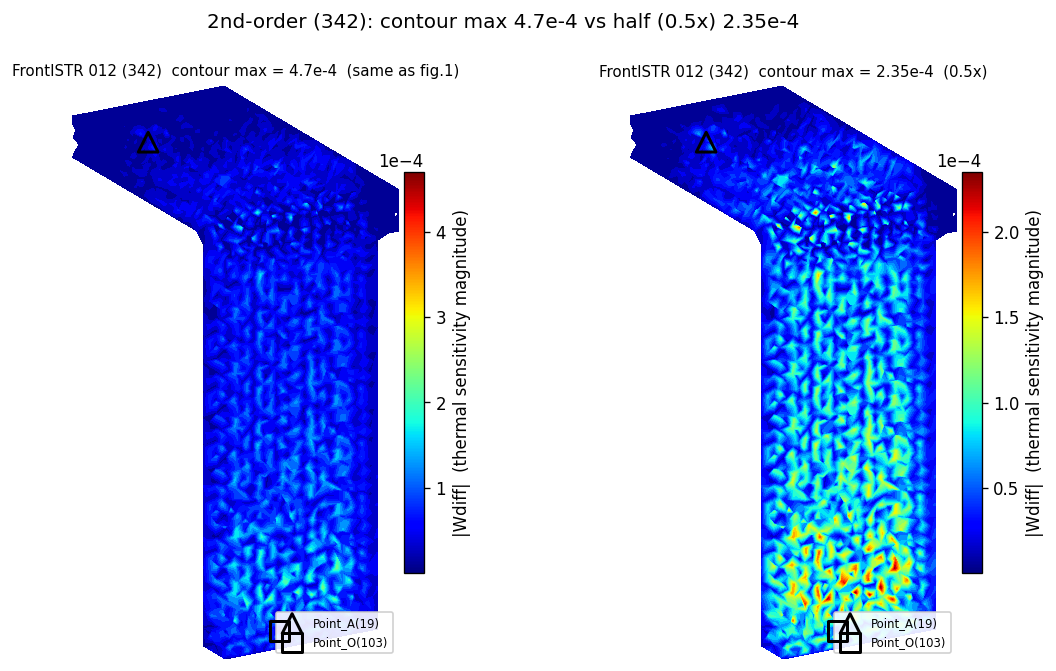
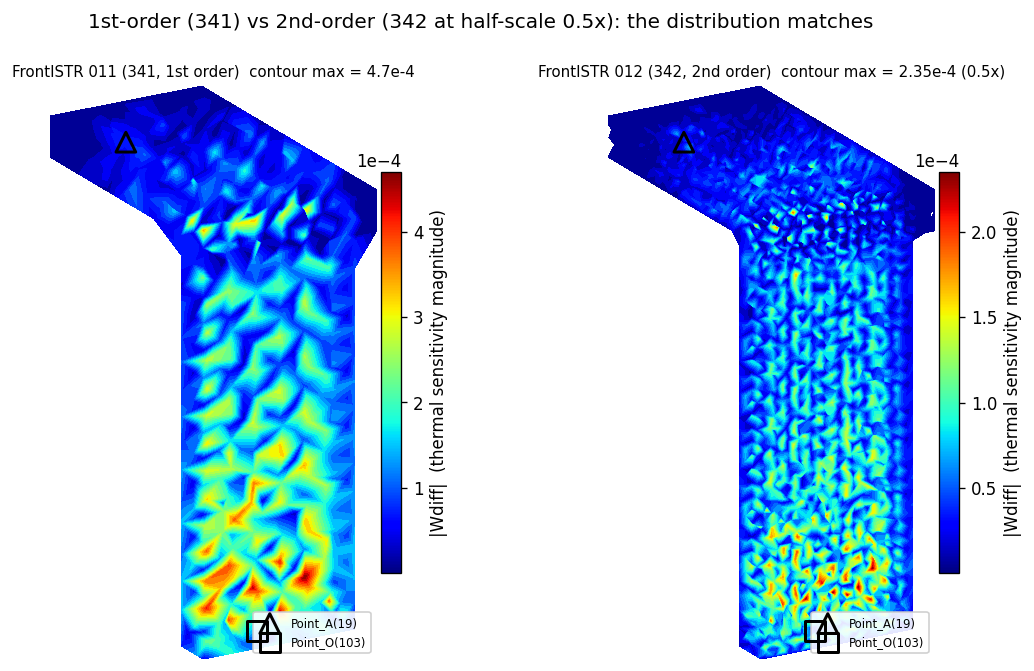
docs: fix GitHub inline-math parse failures; add Point_A program, ParaView image, K/H appendix pointer; fix 1st-vs-2nd figure
- Inline math on GitHub was failing across docs/13,14 and patch/README: '$'
  next to a digit (currency) or next to CJK breaks the $...$ span and cascades
  down the paragraph. Brace-wrap digit-start spans (${3n...}$) and pad ASCII
  spaces around inline math adjacent to Japanese.
- docs/14: add 4.5 (the Point_A/Point_O reading program, fstr_sensitivity_read_
  dofs walkthrough); add a real ParaView comparison image (fi1python_fi2_fi1);
  pointer to Appendix A (K/H formulas + STF_C3/TLOAD_C3/assembly file locations);
  fix stale tbl342 note (342 needs no reorder).
- plot_wdiff_distribution.py: second figure now left=341 (1st), right=342 (2nd,
  half-scale) to show the distributions match.

diff --git a/20260810_KinvH/post/plot_wdiff_distribution.py b/20260810_KinvH/post/plot_wdiff_distribution.py
@@ -135,15 +135,17 @@ def main():
     out1 = os.path.join(ROOT, 'docs/img/dumpw_wdiff_python_009_011_012.png')
     fig.savefig(out1, dpi=120, bbox_inches='tight'); print('saved', out1)
 
-    # --- 図2: 342だけ、色スケール上限を 4.7e-4（左）と その0.5倍=2.35e-4（右）で比較 ---
+    # --- 図2: 左=1次(341)を上限4.7e-4、右=2次(342)を上限0.5倍=2.35e-4。
+    #          2次のコンター上限をピークに合わせて半分にすると、分布は1次とそっくりになる。
     fig2, axes2 = plt.subplots(1, 2, figsize=(11, 6.2))
-    n1, c1 = draw_panel(axes2[0], nodes342, ids342, w012, VMAX,
-                        'FrontISTR 012 (342)  contour max = 4.7e-4  (same as fig.1)')
+    n1, c1 = draw_panel(axes2[0], nodes341, ids341, w011, VMAX,
+                        'FrontISTR 011 (341, 1st order)  contour max = 4.7e-4')
     add_colorbar(fig2, axes2[0], n1, c1, VMAX)
     n2, c2 = draw_panel(axes2[1], nodes342, ids342, w012, 0.5 * VMAX,
-                        'FrontISTR 012 (342)  contour max = 2.35e-4  (0.5x)')
+                        'FrontISTR 012 (342, 2nd order)  contour max = 2.35e-4 (0.5x)')
     add_colorbar(fig2, axes2[1], n2, c2, 0.5 * VMAX)
-    fig2.suptitle('2nd-order (342): contour max 4.7e-4 vs half (0.5x) 2.35e-4', fontsize=12)
+    fig2.suptitle('1st-order (341) vs 2nd-order (342 at half-scale 0.5x): '
+                  'the distribution matches', fontsize=12)
     out2 = os.path.join(ROOT, 'docs/img/dumpw_wdiff_342_halfscale.png')
     fig2.savefig(out2, dpi=120, bbox_inches='tight'); print('saved', out2)
 

diff --git a/20260810_KinvH/docs/13_手順_FrontISTR内でW行列とVTKを出力.md b/20260810_KinvH/docs/13_手順_FrontISTR内でW行列とVTKを出力.md
@@ -6,7 +6,7 @@
 `post/write_sensitivity_vtk.py`）で行っていた。FrontISTRからは $K$ と $H$ だけを取り出し、
 そのあとPythonで $W = K^{-1}H$ を解いて可視化していた、ということである。
 
-この手順では、その後半（$W$ の計算とVTK出力）を**FrontISTRの中だけで完結**させる。
+この手順では、その後半（ $W$ の計算とVTK出力）を**FrontISTRの中だけで完結**させる。
 新しいキーワード `DUMPW=YES` を `!SOLVER` カードに付けると、`fistr1` を1回実行するだけで
 
 - `sensitivity_Wdiff.vtk` … ParaViewでそのまま開ける感度場（ベクトル場）
@@ -15,7 +15,7 @@
 の2つが出力される。**Pythonは不要**になる。
 
 このためのパッチが `patch/frontistr_dumpw_tet.patch` である。
-既存の `DUMPH` パッチ（$H$ を出すだけ）とは**独立した別パッチ**で、
+既存の `DUMPH` パッチ（ $H$ を出すだけ）とは**独立した別パッチ**で、
 **別のソースフォルダ・別のビルドフォルダ・別のコマンド**で扱う。
 
 ### 1.1 適用範囲
@@ -30,7 +30,7 @@
 > 対応と、`K`・`H`・`W`・`VTK` の4つを1回の実行で出力する使い方は
 > `docs/14_手順_1次2次要素のW出力とvtk比較.md` にまとめてある。
 > DUMPWは1回の実行で `sensitivity_Wdiff.vtk`・`Wdiff_fistr.txt` に加え
-> `H_matrix.mtx`（$H$）も出力する（`DUMPTYPE=MM` を併用すれば $K$ も同時に出る）。
+> `H_matrix.mtx`（ $H$ ）も出力する（`DUMPTYPE=MM` を併用すれば $K$ も同時に出る）。
 
 ---
 
@@ -38,12 +38,12 @@
 
 ### 2.1 感度行列 W と Wdiff
 
-$K$ を（境界条件適用後の）全体剛性行列、$H$ を温度荷重変換行列とすると、
+$K$ を（境界条件適用後の）全体剛性行列、 $H$ を温度荷重変換行列とすると、
 「節点温度を1つ動かしたときに各自由度がどれだけ動くか」を表す感度行列は次で定義される。
 
 $$W = K^{-1} H$$
 
-$K$ は $(3 n_{\text{node}}) \times (3 n_{\text{node}})$、$H$ は $(3 n_{\text{node}}) \times n_{\text{node}}$ なので、
+$K$ は $(3 n_{\text{node}}) \times (3 n_{\text{node}})$ 、 $H$ は $(3 n_{\text{node}}) \times n_{\text{node}}$ なので、
 $W$ も $(3 n_{\text{node}}) \times n_{\text{node}}$ である。
 
 実際に欲しいのは、**測定点A（Point_A）と基準点O（Point_O）の相対変位**が、
@@ -51,28 +51,28 @@ $W$ も $(3 n_{\text{node}}) \times n_{\text{node}}$ である。
 
 $$W_{\text{diff}} = W[\text{Point A の3行}] - W[\text{Point O の3行}]$$
 
-という $3 \times n_{\text{node}}$ の行列になる。
+という ${3 \times n_{\text{node}}}$ の行列になる。
 
 ### 2.2 アジョイント（随伴）法：6回解くだけ
 
 $W_{\text{diff}}$ を素直に作ると $W$ の全列（＝節点数だけの回数）を解く必要があり、節点数が
-増えると非常に重い。そこで、$K$ が対称であること（$K^{-1}$ も対称）を使う。
+増えると非常に重い。そこで、 $K$ が対称であること（ $K^{-1}$ も対称）を使う。
 $W_{\text{diff}}$ の各行は、Point_A / Point_O の6自由度に対応する単位ベクトル $e_i$ を使って
 
 $$\text{row}_i = e_i^{\mathsf T} K^{-1} H = (K^{-1} e_i)^{\mathsf T} H = z_i^{\mathsf T} H$$
 
-と書ける（$z_i = K^{-1} e_i$）。つまり必要なのは **6本の $z_i$ を解くこと**だけで、
+と書ける（ $z_i = K^{-1} e_i$ ）。つまり必要なのは **6本の $z_i$ を解くこと**だけで、
 節点数がいくら増えても solve は6回で済む。詳しい導出は `docs/12` を参照。
 
 ### 2.3 FrontISTR内でどう実装したか
 
 FrontISTRは変位を求めるとき、すでに $K$ を組み立てて因子分解（LU）している。
 DUMPWはその**因子分解を使い回して**、6本の $z_i$ を**後退代入だけ**で解く。
-そのあと、$H$ をファイルに書かずに、要素ごとに標準ルーチン `TLOAD_C3` で
+そのあと、 $H$ をファイルに書かずに、要素ごとに標準ルーチン `TLOAD_C3` で
 $H_e$ の列を計算し、その場で $z_i$ と掛けて $W_{\text{diff}}$ に足し込む
-（$H$ をメモリに丸ごと持たない）。
+（ $H$ をメモリに丸ごと持たない）。
 
-具体的には、$g_c = z_{A,c} - z_{O,c}$（$c = x,y,z$ の3本）を作っておき、
+具体的には、 $g_c = z_{A,c} - z_{O,c}$ （ $c = x,y,z$ の3本）を作っておき、
 
 $$W_{\text{diff}}[c, n] = g_c^{\mathsf T} H[:,n]$$
 
@@ -82,7 +82,7 @@ $$W_{\text{diff}}[c, n] = g_c^{\mathsf T} H[:,n]$$
 
 固定された自由度は動けないので、その変位感度はゼロである。ところが直接法の
 境界条件処理（対角を大きくする方式）では、**固定点そのものを測定点に選んだ場合**
-（例：Point_Oが固定境界上にある場合）、$z_i$ の固定自由度に見かけの値が残り、
+（例：Point_Oが固定境界上にある場合）、 $z_i$ の固定自由度に見かけの値が残り、
 その節点の列だけ $W_{\text{diff}}$ が異常に大きくなる。
 
 そこでDUMPWは、6本の $z_i$ を解いたあと、**固定自由度の行を0にしてから** $g_c^{\mathsf T} H$ を
@@ -104,7 +104,7 @@ $$W_{\text{diff}}[c, n] = g_c^{\mathsf T} H[:,n]$$
 | `fistr1/src/common/fstr_setup.f90` | 読み取った `DUMPW` を内部配列 `svIarray(37)` に格納する配線を追加 |
 | `fistr1/src/lib/m_fstr.F90` | `Iarray(37)` の既定値を `0`（オフ）に初期化 |
 | `fistr1/src/analysis/static/fstr_solve_NonLinear.f90` | 変位solveの直後に `fstr_dump_sensitivity` を追加。因子分解を使い回して6本の $z_i$ を解き、固定自由度をゼロ化して `export` へ渡す |
-| `fistr1/src/analysis/static/fstr_ass_load.f90` | `fstr_sensitivity_read_dofs`（測定点の読み取り）、`fstr_sensitivity_export`（$H$ 出力＋$W_{\text{diff}} = g^{\mathsf T} H$ の加算、341/342対応）、`fstr_sensitivity_write_vtk`（VTK出力）を新規追加 |
+| `fistr1/src/analysis/static/fstr_ass_load.f90` | `fstr_sensitivity_read_dofs`（測定点の読み取り）、`fstr_sensitivity_export`（ $H$ 出力＋ $W_{\text{diff}} = g^{\mathsf T} H$ の加算、341/342対応）、`fstr_sensitivity_write_vtk`（VTK出力）を新規追加 |
 
 ---
 
@@ -210,7 +210,7 @@ DUMPW: wrote H_matrix.mtx, sensitivity_Wdiff.vtk, Wdiff_fistr.txt; n_node= 570  
 
 | ファイル | 内容 | 使い方 |
 |---|---|---|
-| `sensitivity_Wdiff.vtk` | 感度場 $W_{\text{diff}}$（ベクトル場 `Sensitivity`） | ParaViewで開いてGlyphやWarp、色分け表示 |
+| `sensitivity_Wdiff.vtk` | 感度場 $W_{\text{diff}}$ （ベクトル場 `Sensitivity`） | ParaViewで開いてGlyphやWarp、色分け表示 |
 | `Wdiff_fistr.txt` | `# global_node_id  Wdiff_x  Wdiff_y  Wdiff_z` の表 | Excelやスクリプトで数値確認・比較 |
 
 `sensitivity_Wdiff.vtk` はレガシーASCII形式のUnstructured Grid（VTK_TETRA）で、
@@ -262,8 +262,8 @@ Python版アジョイント結果 `Wdiff_fistr_tji.npy`（`post/wdiff_adjoint.py
 | | DUMPH（既存） | DUMPW（この手順） |
 |---|---|---|
 | キーワード | `!SOLVER,...,DUMPH=YES` | `!SOLVER,...,DUMPW=YES` |
-| 出力 | `H_matrix.mtx`（$H$ そのもの） | `sensitivity_Wdiff.vtk` + `Wdiff_fistr.txt`（$W_{\text{diff}}$） |
+| 出力 | `H_matrix.mtx`（ $H$ そのもの） | `sensitivity_Wdiff.vtk` + `Wdiff_fistr.txt`（ $W_{\text{diff}}$ ） |
 | solveするか | しない（`DUMPEXIT=YES` で即終了） | する（因子分解を作り、6本の $z_i$ を後退代入） |
-| その後のPython | 必要（$W$ 計算＋VTK） | **不要**（FrontISTR内で完結） |
+| その後のPython | 必要（ $W$ 計算＋VTK） | **不要**（FrontISTR内で完結） |
 | パッチ | `frontistr_dumph_341.patch` | `frontistr_dumpw_tet.patch`（独立） |
 | ビルド先 | 通常の改造版ビルド | 別フォルダ `build-dumpw` |
